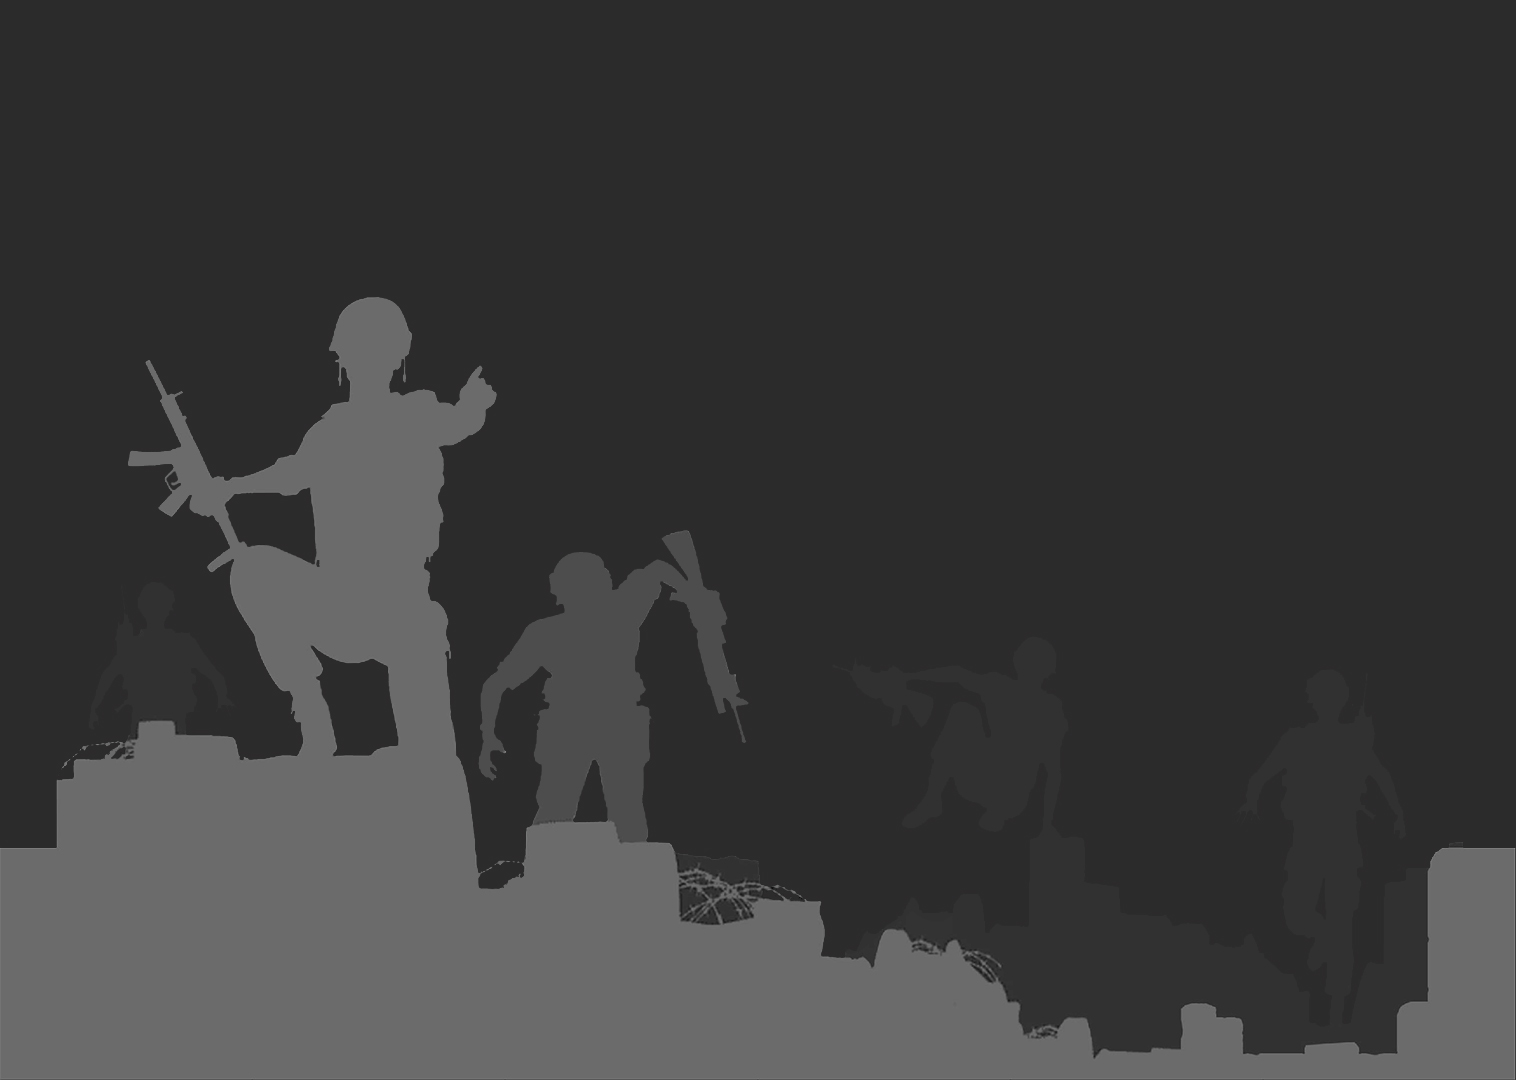
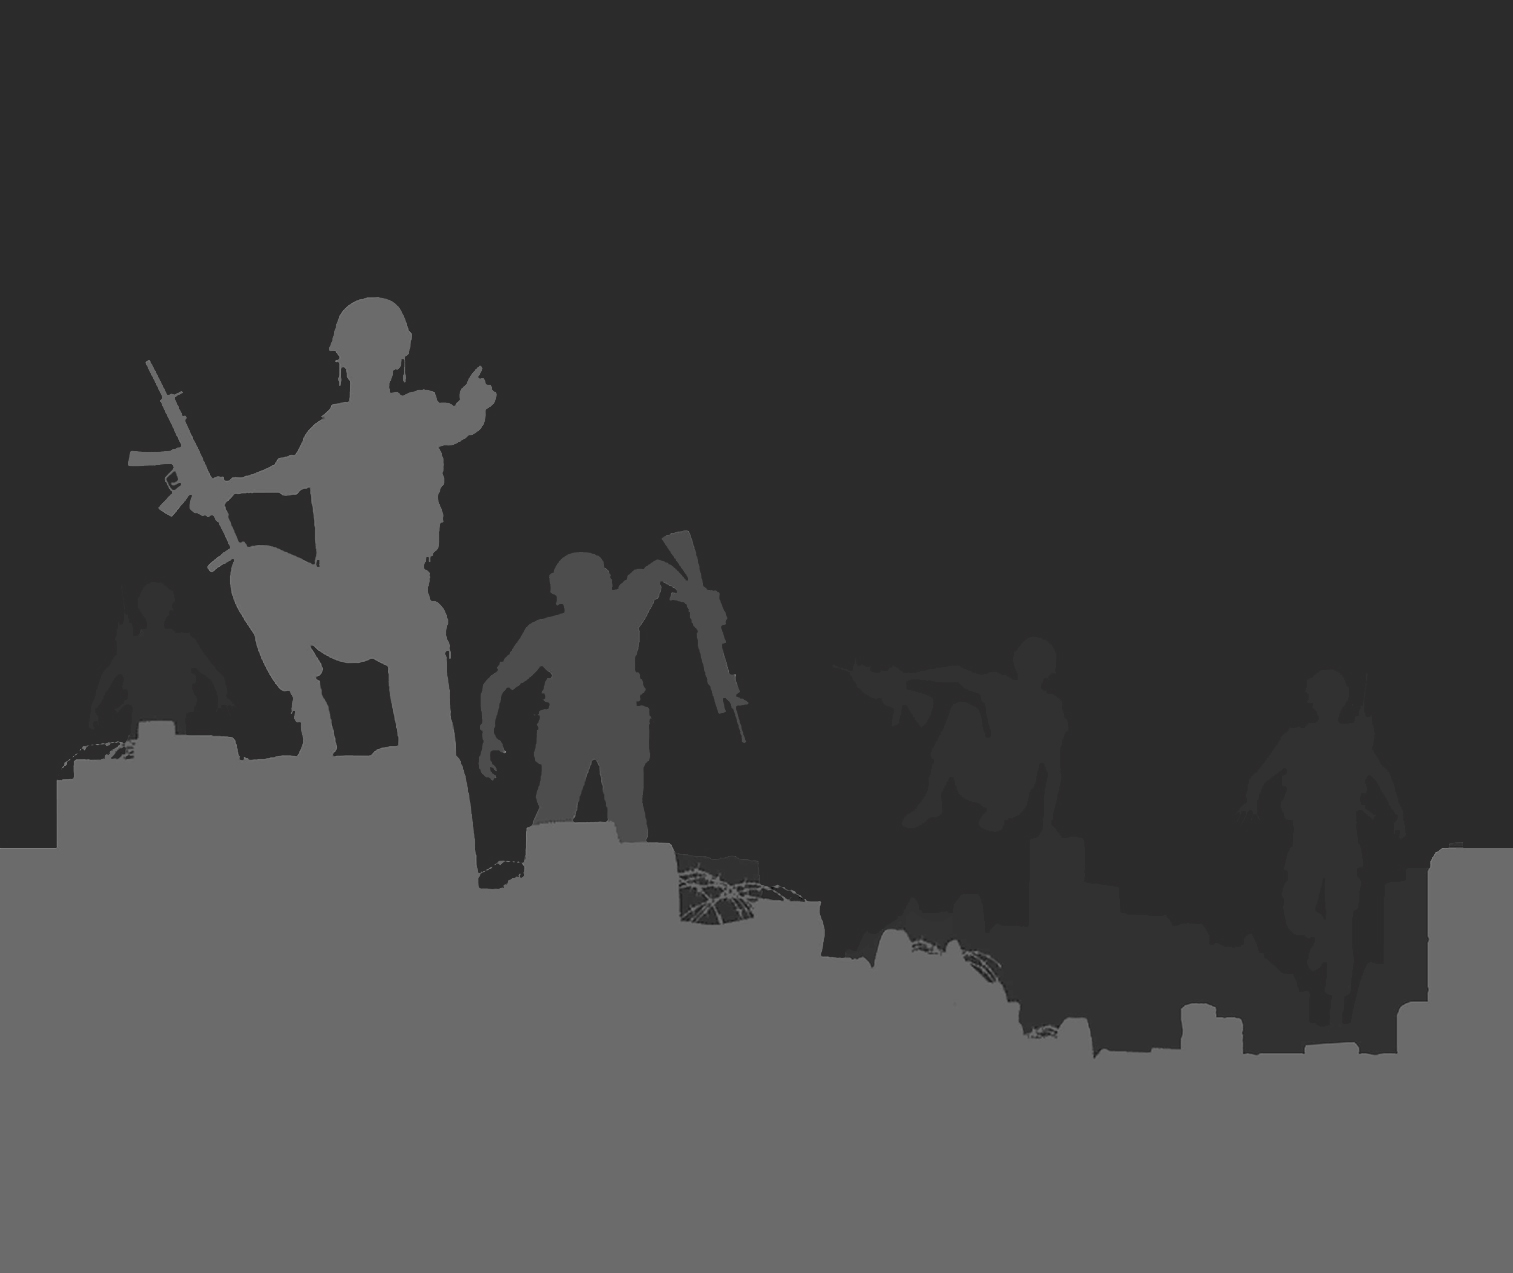
Mejoras fondo

Changed region(s): [[0.0, 0.2139, 1.0, 1.0]]

diff --git a/src/main/resources/edu/fiuba/algo3/styles-dark.css b/src/main/resources/edu/fiuba/algo3/styles-dark.css
@@ -79,6 +79,13 @@
     -fx-background-color: #2C2B2C;
 }
 
+
+.fondoMenu {
+    -fx-background-color: #2C2B2C;
+    -fx-background-image: url("../../../../../imagenes/Guerra_dark.png");
+    -fx-background-repeat: repeat no-repeat;
+}
+
 .caja,#playerBox {
     -fx-background-color: #3C3F42;
     -fx-text-fill: #FFF;

diff --git a/src/main/java/edu/fiuba/algo3/interfaz/pantallas/ControladorPantallaInicial.java b/src/main/java/edu/fiuba/algo3/interfaz/pantallas/ControladorPantallaInicial.java
@@ -20,7 +20,6 @@ public class ControladorPantallaInicial {
         this.scene = scene;
 
         App.loadFXML("VistaPantallaInicial.fxml", this);
-        setBackground();
         App.cancion("cancionInicio");
     }
 
@@ -35,19 +34,5 @@ public class ControladorPantallaInicial {
 
         if (botonMusica.isSelected()) App.detenerCancion();
         else App.reproducirCancion();
-    }
-
-    @FXML
-    public void setBackground() throws IOException {
-
-        GridPane grilla = (GridPane) scene.lookup("#grilla");
-        Image imagen = new Image(new FileInputStream("imagenes/Guerra_dark_blur.png"));
-        BackgroundImage fondoimg = new BackgroundImage(imagen,
-                BackgroundRepeat.REPEAT,
-                BackgroundRepeat.REPEAT,
-                BackgroundPosition.DEFAULT,
-                new BackgroundSize(1, 1, true, true, false, false));
-        grilla.setBackground(new Background(fondoimg));
-        grilla.setStyle("#fondo");
     }
 }
